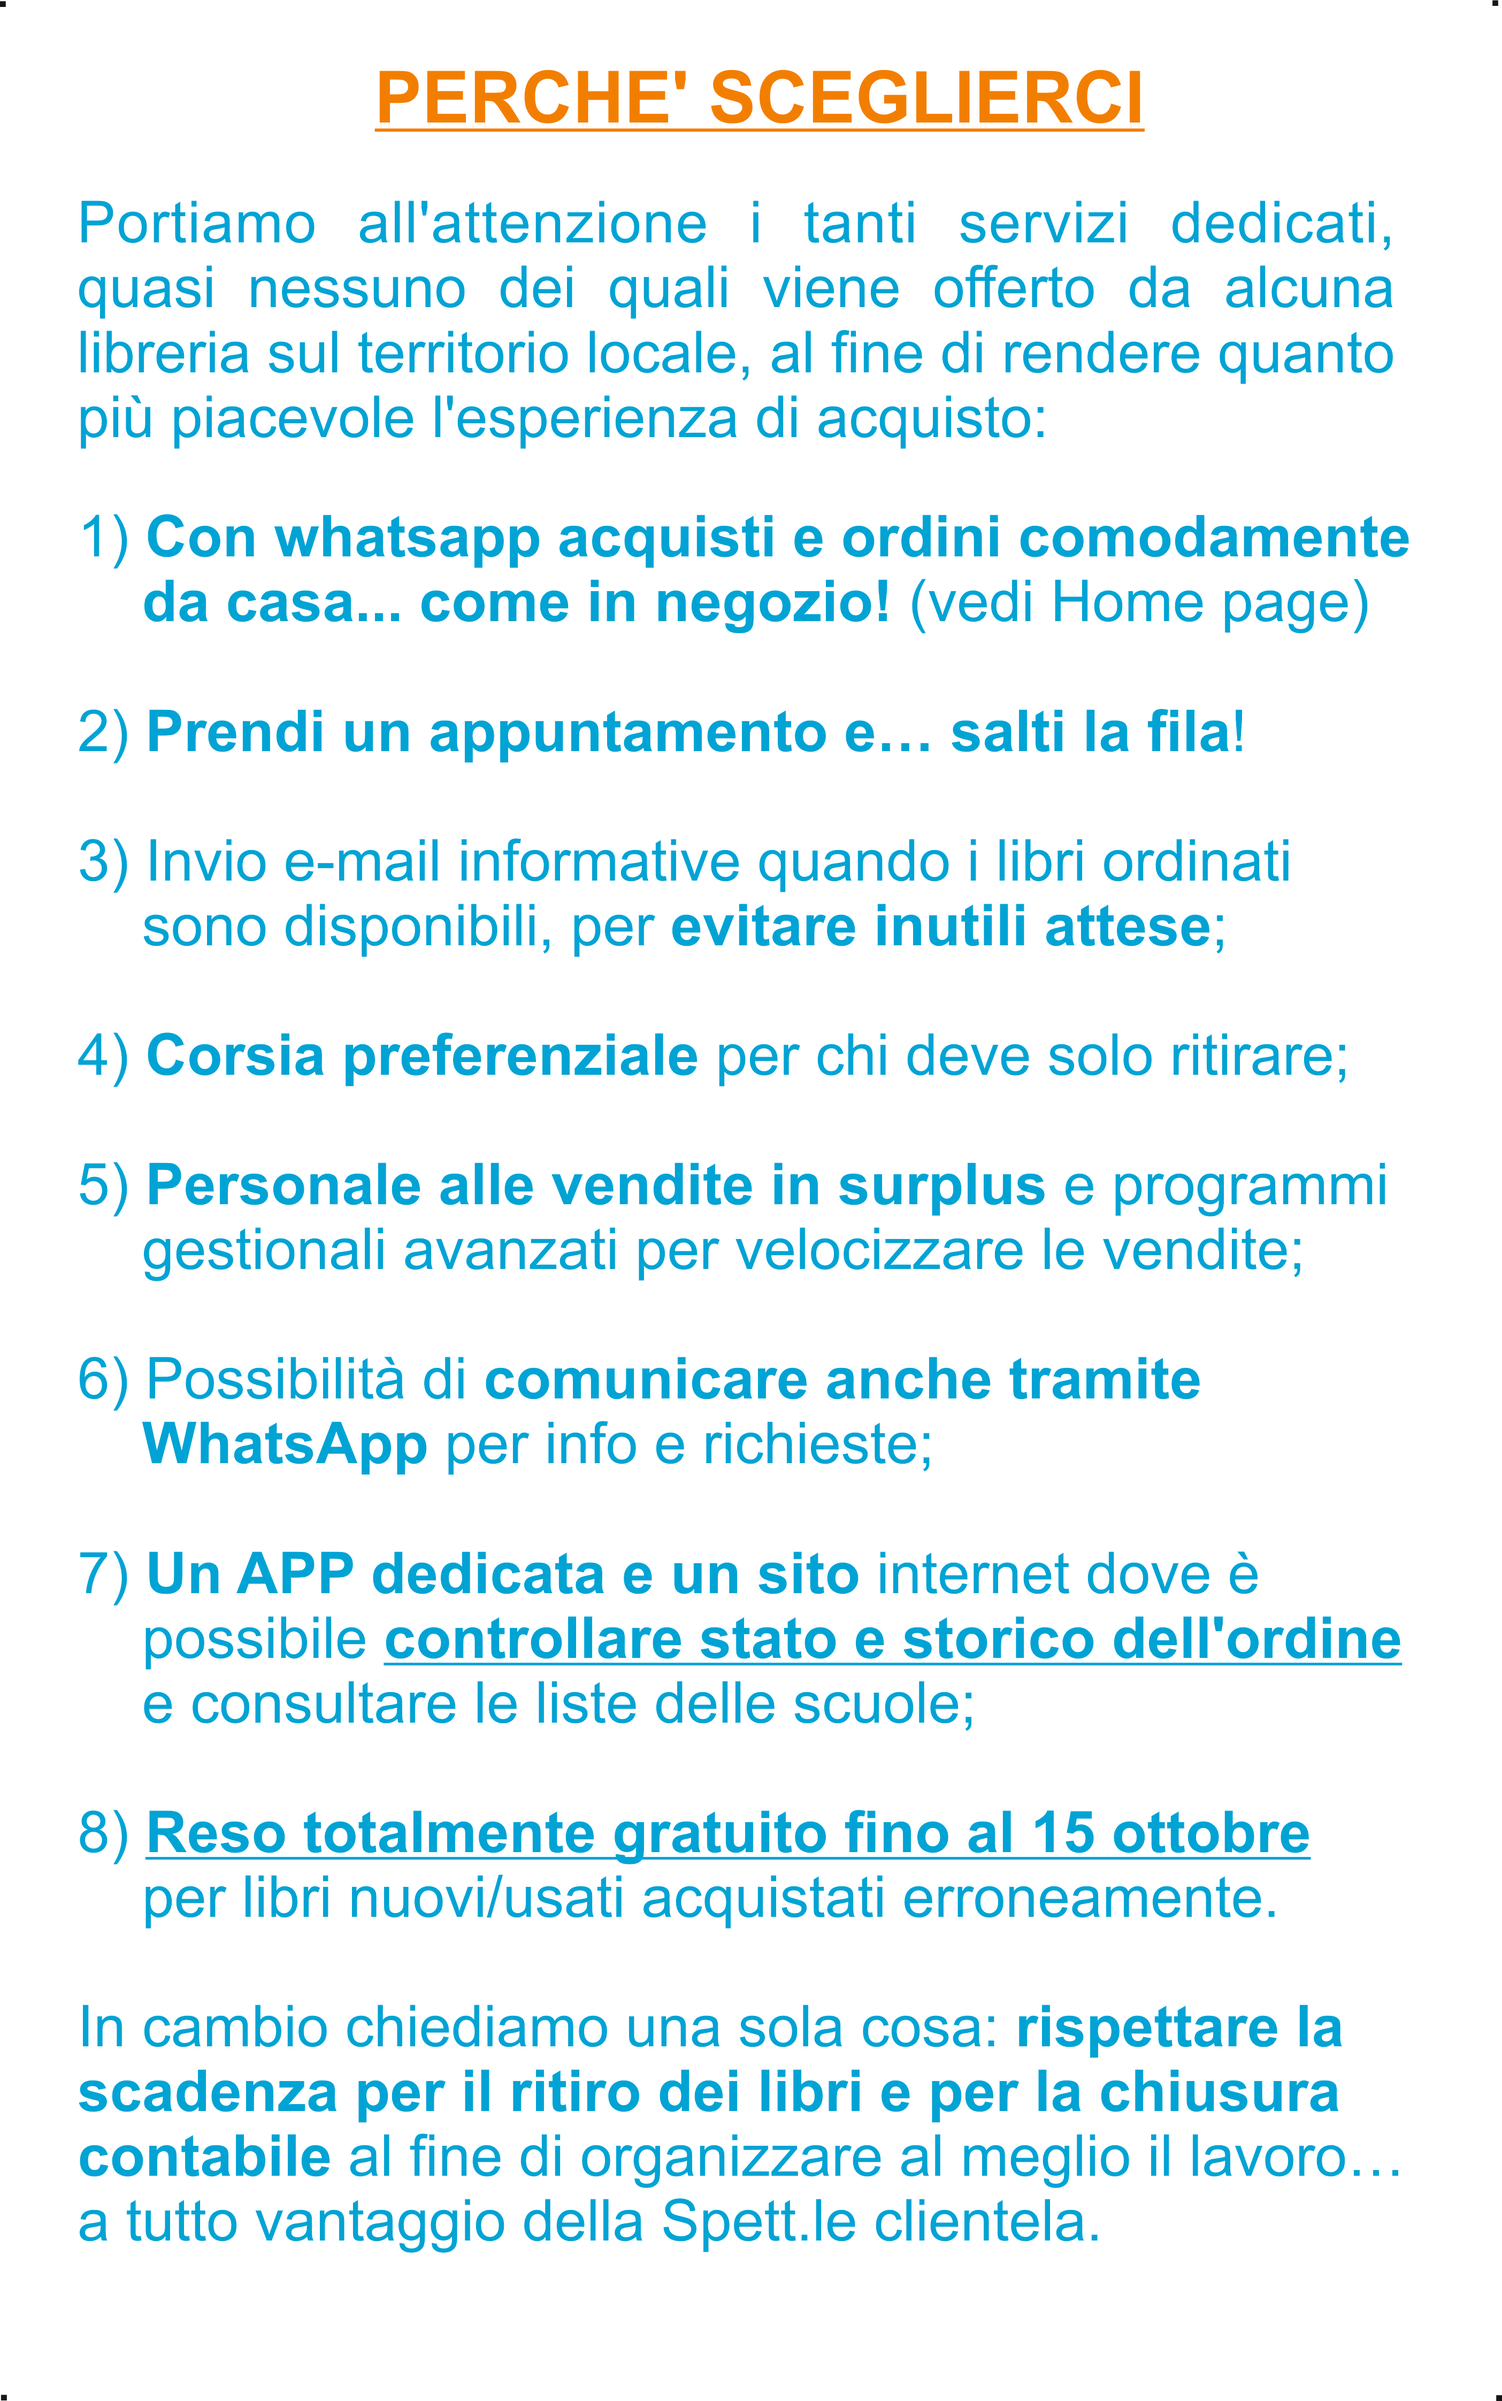
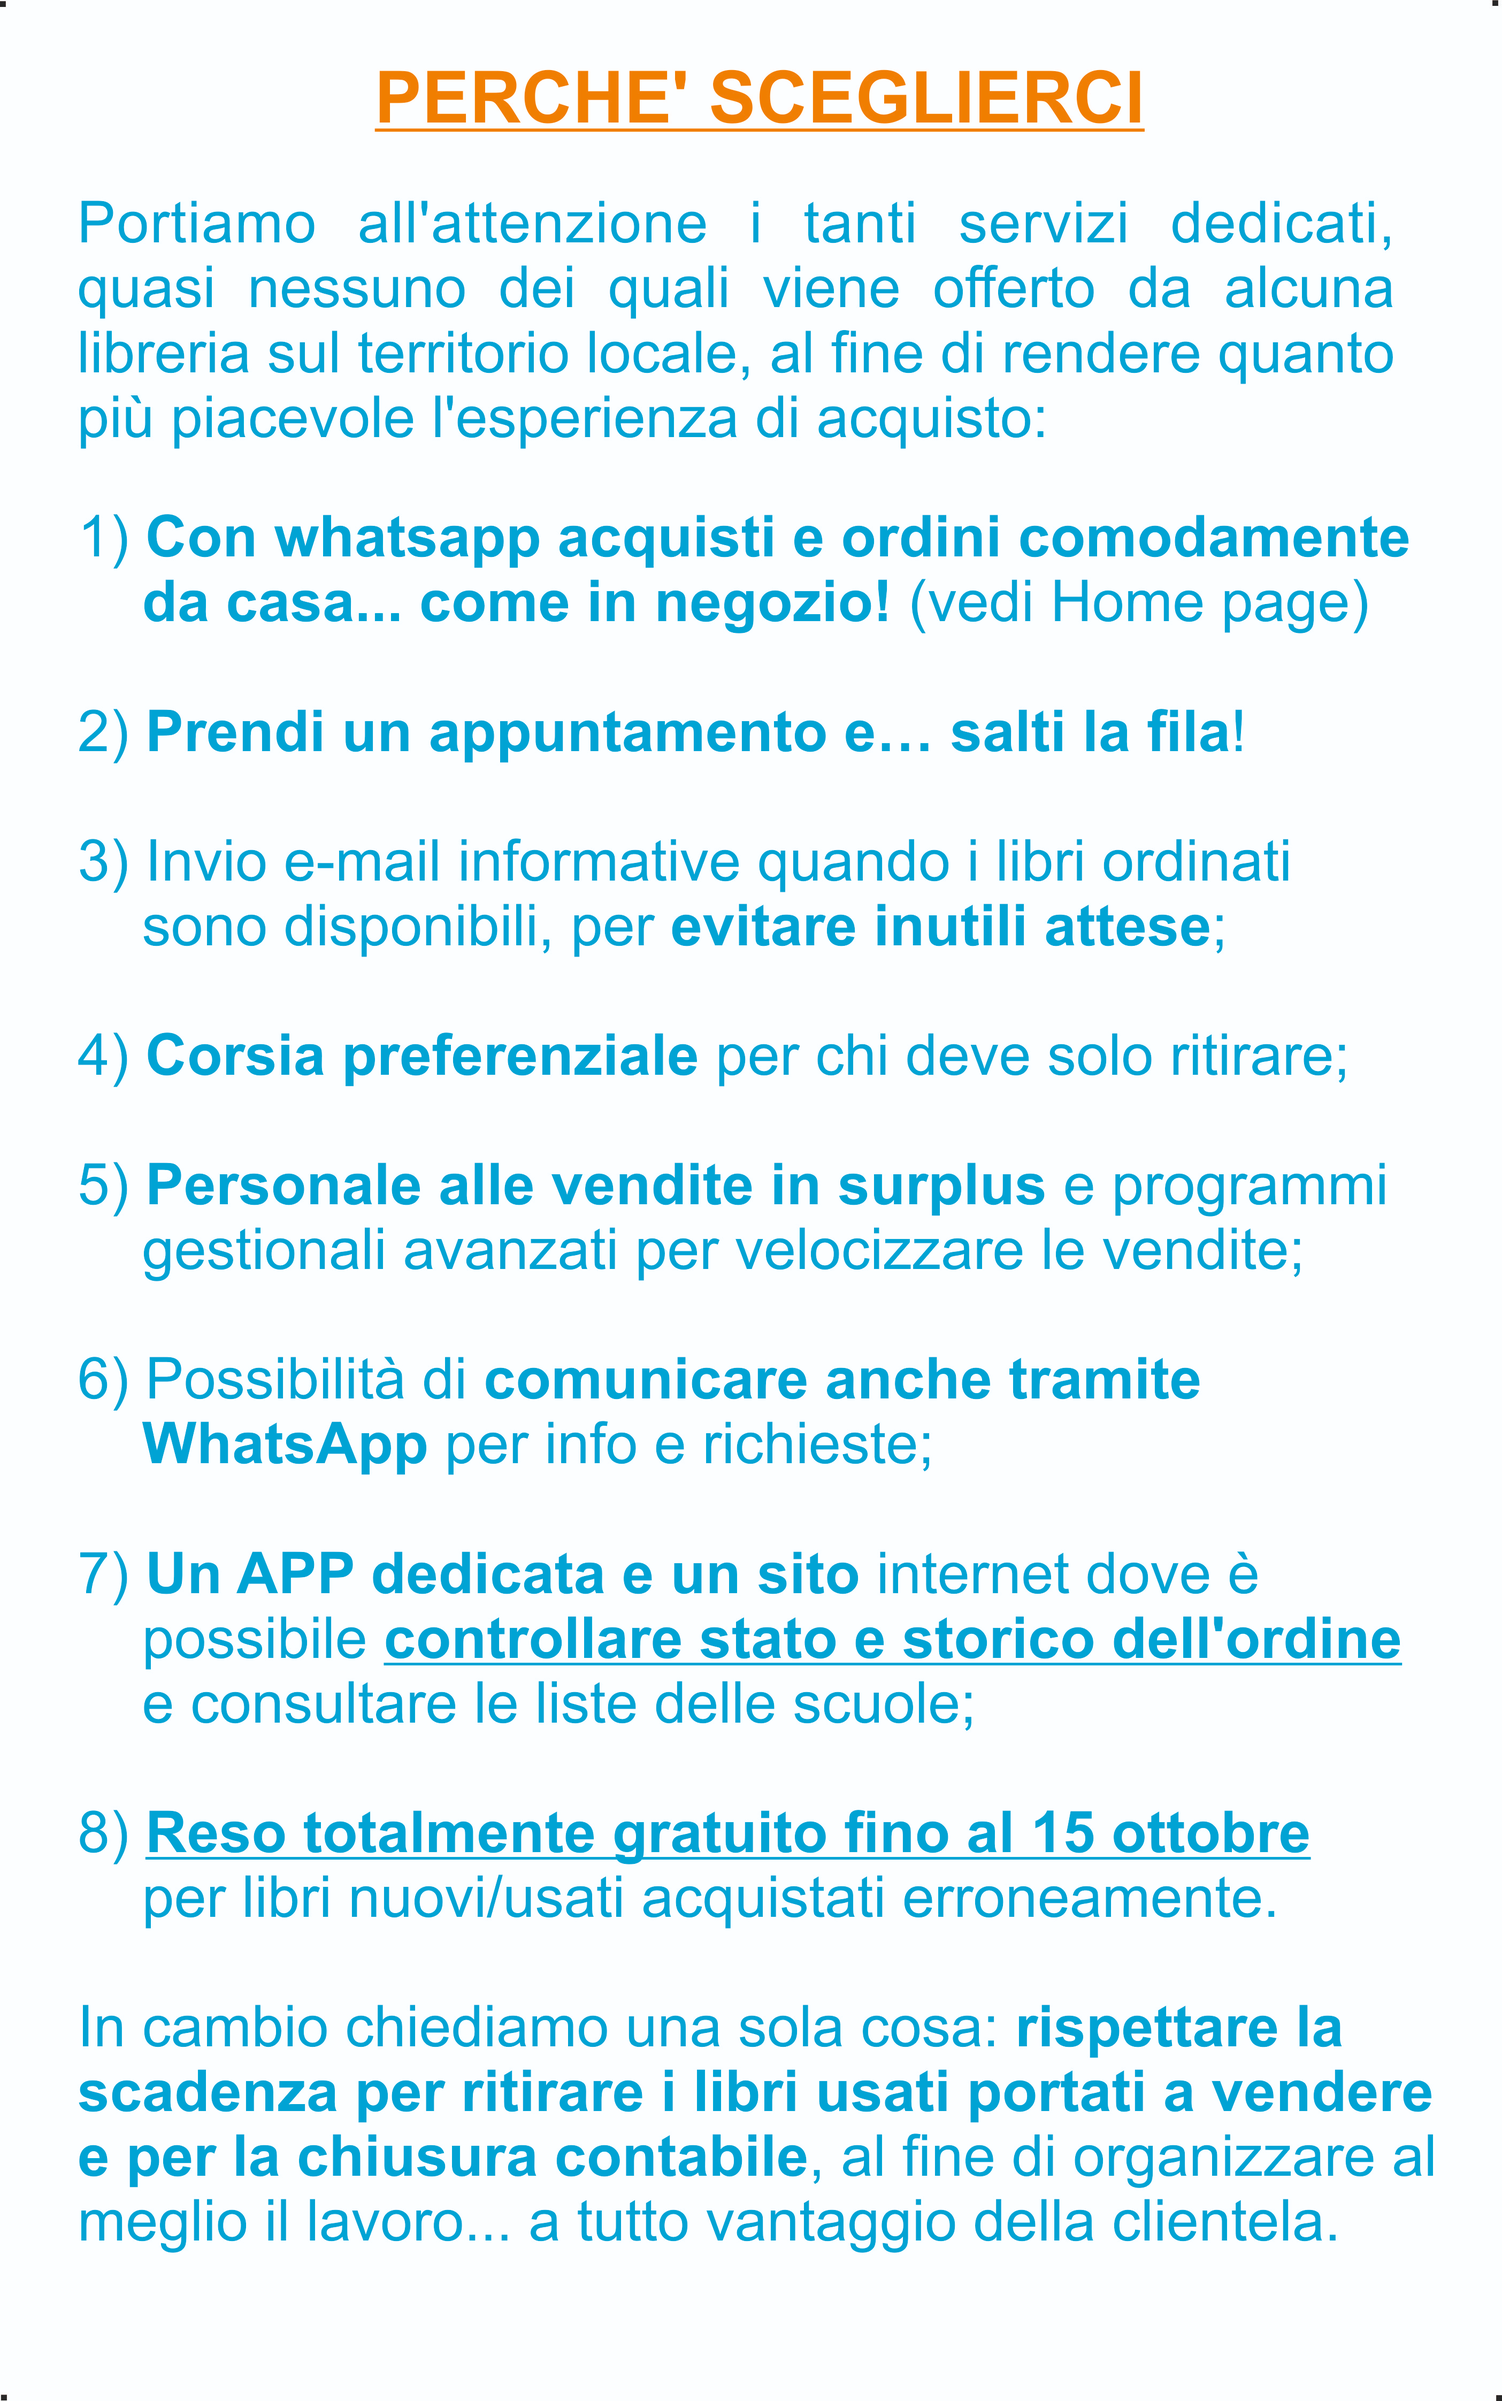
Upgrade Sede Pompei and Perché Sceglierci

Changed region(s): [[0.062, 0.8422, 0.9605, 0.9358]]

diff --git a/components/AdozioniComponent/Adozioni.component.tsx b/components/AdozioniComponent/Adozioni.component.tsx
@@ -249,7 +249,7 @@ export const AdozioniComponent = ({ }) => {
                                                 styles.sedeImage,
                                                 state.lockSede && state.sedeSelezionata === SEDI[0] && styles.disabledImage,
                                             ]}
-                                            source={require('@/assets/images/sedePompei.jpg')}
+                                            source={require('@/assets/images/sedePompei.png')}
                                             resizeMode="cover"
                                         />
                                     </View>
